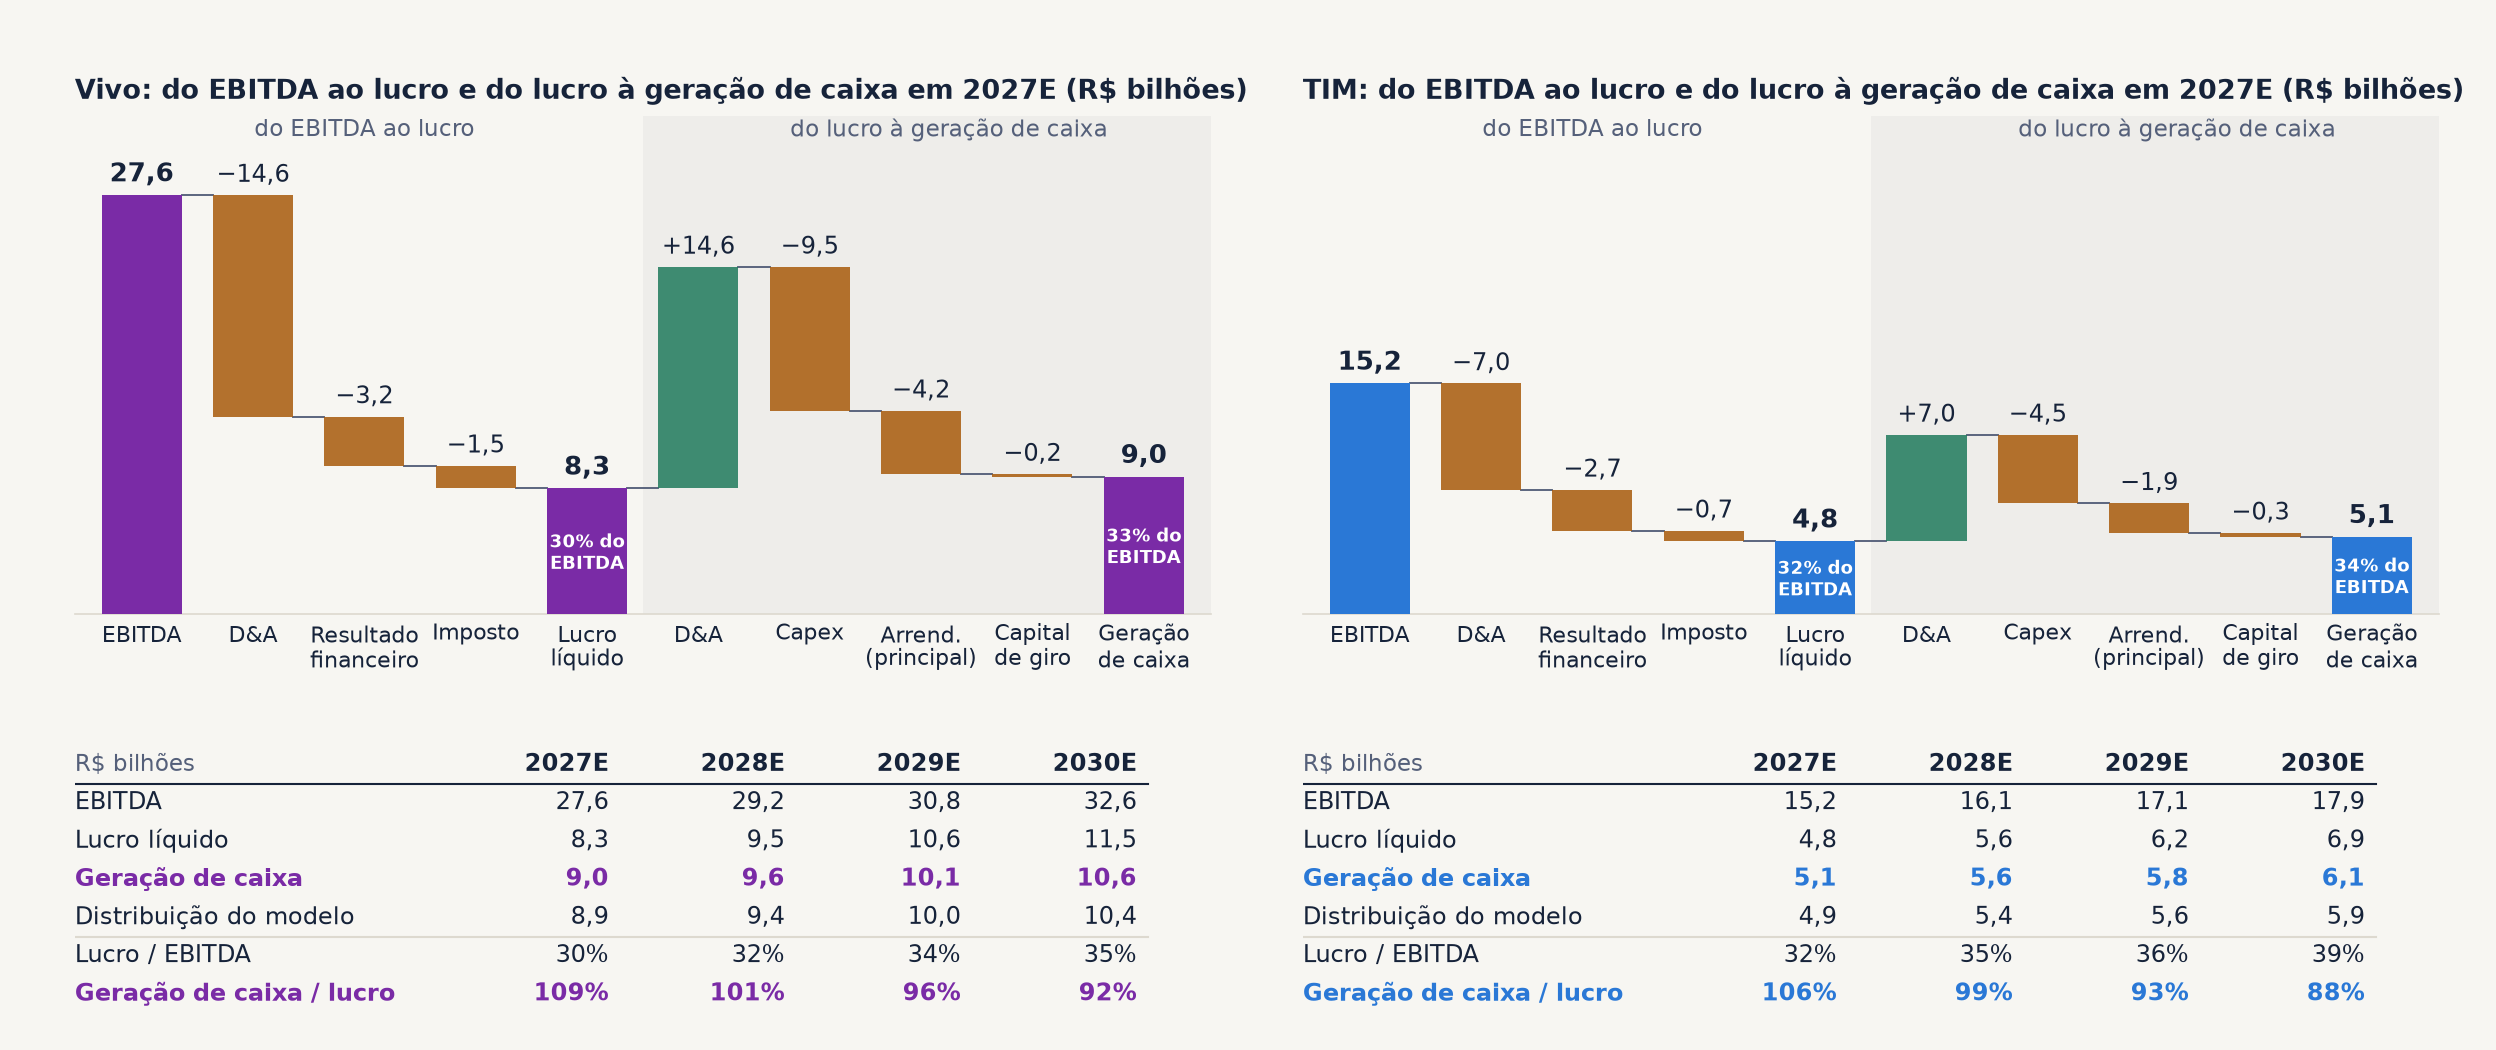
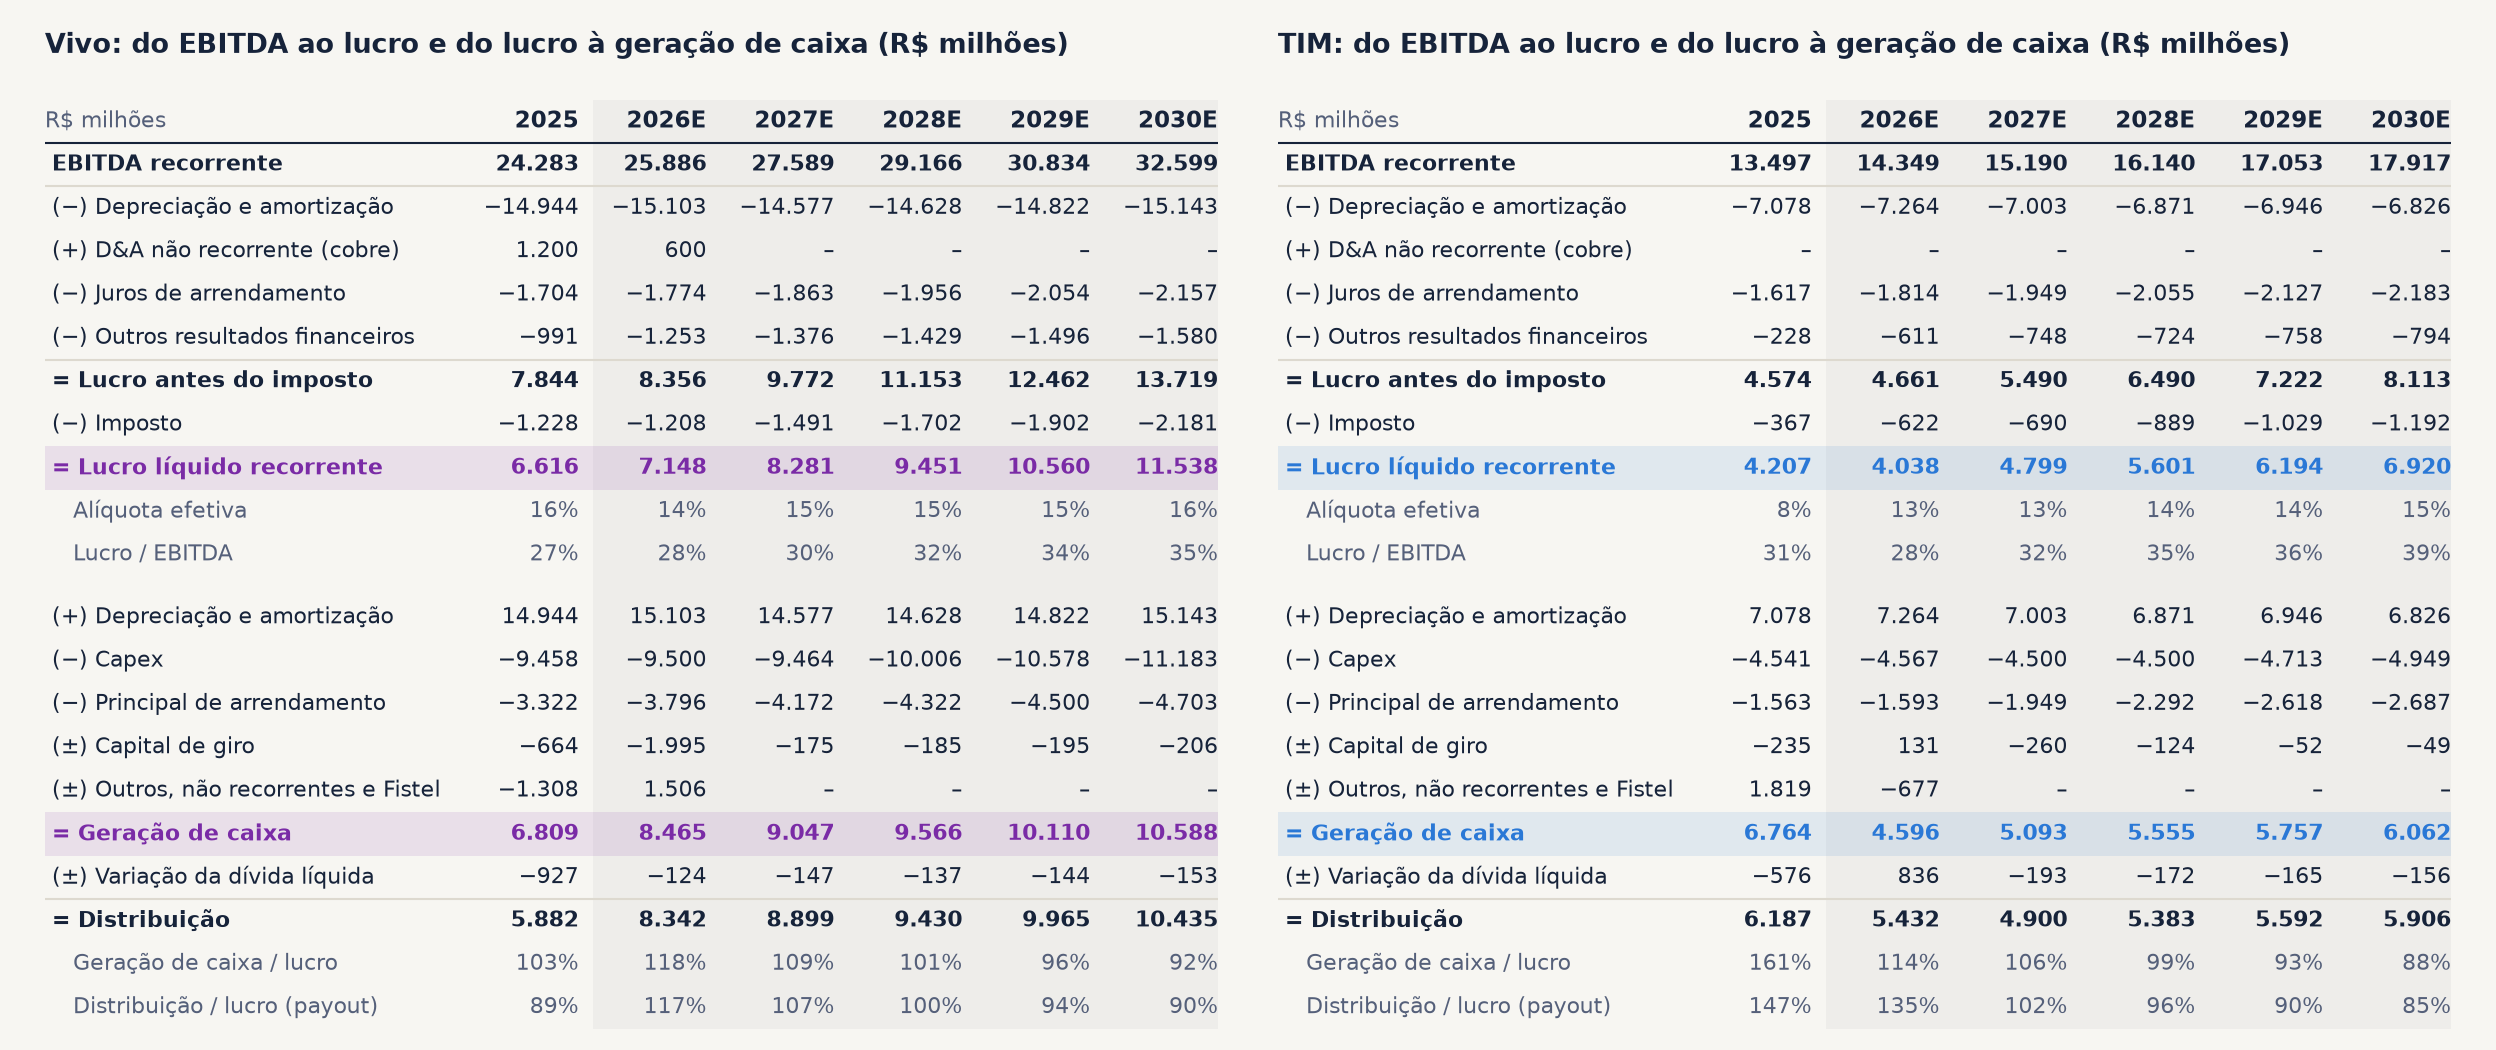
v6.2 - 24/11/2026 23:46 - slide 21: ponte do EBITDA ao lucro e ao caixa em tabela, 2025 a 2030E
Sai a cascata de 2027E; entra a tabela detalhada por ano (D&A, cobre, juros de arrendamento, outros financeiros, imposto, capex, principal de arrendamento, giro, outros, variacao da divida, distribuicao).

diff --git a/index.html b/index.html
@@ -40,7 +40,7 @@ h1, h2, h3 { font-family:'Space Grotesk', Arial, sans-serif; }
 <div id="palco">
 <section id="capa" class="capa" data-transition="fade">
 <div>
-<p class="chip">v6.1 · 24/11/2026 23:41</p>
+<p class="chip">v6.2 · 24/11/2026 23:46</p>
 </div>
 <div>
 <h1>Telecom Brasil: Vivo e TIM</h1>
@@ -183,10 +183,10 @@ h1, h2, h3 { font-family:'Space Grotesk', Arial, sans-serif; }
 </section>
 <section id="ponte" data-transition="fade">
 <p class="olho">8 · DO EBITDA AO LUCRO E DO LUCRO À GERAÇÃO DE CAIXA</p>
-<h2 class="titulo">Lucro é 30% a 39% do EBITDA; a geração de caixa passa do lucro em 2027E (109% e 106%) e cai para 92% e 88% em 2030E, com o investimento acima da D&A</h2>
-<img class="graf" src="img/v11_ponte.png" alt="Dois gráficos de cascata, Vivo e TIM na mesma escala, para 2027 estimado em bilhões de reais: EBITDA, menos depreciação e amortização, menos resultado financeiro, menos imposto, igual ao lucro líquido; depois mais depreciação e amortização, menos capex, menos principal de arrendamento, menos capital de giro, igual à geração de caixa. Embaixo, uma tabela de 2027 a 2030 estimado com EBITDA, lucro líquido, geração de caixa, distribuição do modelo e as relações lucro sobre EBITDA e geração de caixa sobre lucro">
-<p class="fonte">Fonte: modelos de Vivo e TIM de 24/11/2026. Geração de caixa = lucro + D&A − capex − principal de arrendamento − capital de giro, antes da variação da dívida líquida. Resultado financeiro inclui os juros de arrendamento e, na TIM, a equivalência patrimonial. A base supõe o Fistel pago.</p>
-<aside>Do EBITDA ao lucro em 2027E. Vivo: EBITDA de R$ 27,6 bilhões, menos R$ 14,6 bilhões de depreciação e amortização, menos R$ 3,2 bilhões de resultado financeiro (dos quais R$ 1,9 bilhão de juros de arrendamento), menos R$ 1,5 bilhão de imposto (15,3% do lucro antes do imposto, com o JCP), igual a R$ 8,3 bilhões de lucro, 30% do EBITDA. TIM: EBITDA de R$ 15,2 bilhões, menos R$ 7,0 bilhões de depreciação e amortização, menos R$ 2,7 bilhões de resultado financeiro (R$ 1,9 bilhão de juros de arrendamento e R$ 0,1 bilhão de equivalência patrimonial), menos R$ 0,7 bilhão de imposto (12,6%), igual a R$ 4,8 bilhões de lucro, 32% do EBITDA. Do lucro à geração de caixa em 2027E. Vivo: R$ 8,3 bilhões de lucro, mais R$ 14,6 bilhões de depreciação e amortização, menos R$ 9,5 bilhões de capex, menos R$ 4,2 bilhões de principal de arrendamento, menos R$ 0,2 bilhão de capital de giro, igual a R$ 9,0 bilhões, 109% do lucro e 33% do EBITDA. TIM: R$ 4,8 bilhões, mais R$ 7,0 bilhões, menos R$ 4,5 bilhões de capex, menos R$ 1,9 bilhão de arrendamento, menos R$ 0,3 bilhão de capital de giro, igual a R$ 5,1 bilhões, 106% do lucro e 34% do EBITDA. Por ano. Vivo: EBITDA de R$ 27,6, 29,2, 30,8 e 32,6 bilhões de 2027E a 2030E; lucro de R$ 8,3, 9,5, 10,6 e 11,5 bilhões (30%, 32%, 34% e 35% do EBITDA); geração de caixa de R$ 9,0, 9,6, 10,1 e 10,6 bilhões (109%, 101%, 96% e 92% do lucro); distribuição de R$ 8,9, 9,4, 10,0 e 10,4 bilhões. TIM: EBITDA de R$ 15,2, 16,1, 17,1 e 17,9 bilhões; lucro de R$ 4,8, 5,6, 6,2 e 6,9 bilhões (32%, 35%, 36% e 39%); geração de caixa de R$ 5,1, 5,6, 5,8 e 6,1 bilhões (106%, 99%, 93% e 88%); distribuição de R$ 4,9, 5,4, 5,6 e 5,9 bilhões. Leitura. O lucro cresce mais que o EBITDA porque a depreciação fica quase parada: na Vivo vai de R$ 14,6 bilhões para R$ 15,1 bilhões enquanto o EBITDA sobe R$ 5,0 bilhões; na TIM cai de R$ 7,0 bilhões para R$ 6,8 bilhões. A geração de caixa cresce menos que o lucro porque capex mais principal de arrendamento passam a depreciação: na Vivo, R$ 13,6 bilhões contra R$ 14,6 bilhões de D&A em 2027E (sobra de R$ 0,9 bilhão) e R$ 15,9 bilhões contra R$ 15,1 bilhões em 2030E (falta de R$ 0,7 bilhão); na TIM, R$ 6,4 bilhões contra R$ 7,0 bilhões em 2027E (sobra de R$ 0,6 bilhão) e R$ 7,6 bilhões contra R$ 6,8 bilhões em 2030E (falta de R$ 0,8 bilhão). É a mesma discussão do slide 14 vista pelo caixa: o payout acima de 100% de 2027E depende de a depreciação ainda estar acima do investimento. A diferença entre a geração de caixa e a distribuição é a variação da dívida líquida projetada (R$ 0,1 a 0,2 bilhão por ano). Fora da ponte: o Fistel não pago (a base supõe a taxa paga; slides 18 a 20), a venda de ativos da Vivo (R$ 1,5 bilhão líquido em 2027E e R$ 1,0 bilhão em 2028E no modelo, não recorrente) e a emissão de arrendamento, que não é caixa.</aside>
+<h2 class="titulo">Lucro vai de 27% para 35% do EBITDA na Vivo e de 31% para 39% na TIM; a geração de caixa cai de 109% e 106% do lucro em 2027E para 92% e 88% em 2030E</h2>
+<img class="graf" src="img/v11_ponte.png" alt="Duas tabelas lado a lado, Vivo e TIM, de 2025 a 2030 estimado, em milhões de reais. Primeira parte: EBITDA recorrente, menos depreciação e amortização, mais a depreciação não recorrente do cobre, menos juros de arrendamento, menos outros resultados financeiros, lucro antes do imposto, imposto e lucro líquido recorrente, com a alíquota efetiva e a relação lucro sobre EBITDA. Segunda parte: mais depreciação e amortização, menos capex, menos principal de arrendamento, capital de giro, outros, geração de caixa, variação da dívida líquida e distribuição, com as relações geração de caixa sobre lucro e distribuição sobre lucro">
+<p class="fonte">Fonte: modelos de Vivo e TIM de 24/11/2026; 2025 realizado. Outros resultados financeiros da TIM incluem a equivalência patrimonial. Outros no caixa: itens não recorrentes, Fistel não pago, depósitos judiciais e compras de participação; de 2027E em diante a base supõe o Fistel pago.</p>
+<aside>Como ler. A primeira parte desce do EBITDA recorrente ao lucro líquido recorrente; a segunda sobe do lucro à geração de caixa e à distribuição. Valores em milhões de reais, com o sinal do efeito (negativo tira). Vivo, do EBITDA ao lucro: EBITDA de 24.283 em 2025, 25.886 em 2026E, 27.589 em 2027E, 29.166 em 2028E, 30.834 em 2029E e 32.599 em 2030E; depreciação e amortização de 14.944, 15.103, 14.577, 14.628, 14.822 e 15.143, das quais 1.200 em 2025 e 600 em 2026E são a depreciação acelerada do cobre, que o lucro recorrente devolve; juros de arrendamento de 1.704, 1.774, 1.863, 1.956, 2.054 e 2.157; outros resultados financeiros de 991, 1.253, 1.376, 1.429, 1.496 e 1.580; lucro antes do imposto de 7.844, 8.356, 9.772, 11.153, 12.462 e 13.719; imposto de 1.228, 1.208, 1.491, 1.702, 1.902 e 2.181 (alíquota de 14% a 16%, com o JCP); lucro de 6.616, 7.148, 8.281, 9.451, 10.560 e 11.538, que são 27%, 28%, 30%, 32%, 34% e 35% do EBITDA. Vivo, do lucro ao caixa: capex de 9.458, 9.500, 9.464, 10.006, 10.578 e 11.183; principal de arrendamento de 3.322, 3.796, 4.172, 4.322, 4.500 e 4.703; capital de giro de menos 664, menos 1.995, menos 175, menos 185, menos 195 e menos 206; outros de menos 1.308 em 2025 e mais 1.506 em 2026E; geração de caixa de 6.809, 8.465, 9.047, 9.566, 10.110 e 10.588 (103%, 118%, 109%, 101%, 96% e 92% do lucro); distribuição de 5.882, 8.342, 8.899, 9.430, 9.965 e 10.435 (payout de 89%, 117%, 107%, 100%, 94% e 90%). TIM, do EBITDA ao lucro: EBITDA de 13.497, 14.349, 15.190, 16.140, 17.053 e 17.917; depreciação e amortização de 7.078, 7.264, 7.003, 6.871, 6.946 e 6.826; juros de arrendamento de 1.617, 1.814, 1.949, 2.055, 2.127 e 2.183; outros resultados financeiros, com a equivalência, de 228, 611, 748, 724, 758 e 794; lucro antes do imposto de 4.574, 4.661, 5.490, 6.490, 7.222 e 8.113; imposto de 367, 622, 690, 889, 1.029 e 1.192 (alíquota de 8% em 2025 e de 13% a 15% depois); lucro de 4.207, 4.038, 4.799, 5.601, 6.194 e 6.920, que são 31%, 28%, 32%, 35%, 36% e 39% do EBITDA. TIM, do lucro ao caixa: capex de 4.541, 4.567, 4.500, 4.500, 4.713 e 4.949; principal de arrendamento de 1.563, 1.593, 1.949, 2.292, 2.618 e 2.687; capital de giro de menos 235, mais 131, menos 260, menos 124, menos 52 e menos 49; outros de mais 1.819 em 2025 e menos 677 em 2026E; geração de caixa de 6.764, 4.596, 5.093, 5.555, 5.757 e 6.062 (161%, 114%, 106%, 99%, 93% e 88% do lucro); distribuição de 6.187, 5.432, 4.900, 5.383, 5.592 e 5.906 (payout de 147%, 135%, 102%, 96%, 90% e 85%). Leitura. O lucro cresce mais que o EBITDA porque a depreciação fica quase parada: na Vivo sobe 0,6 bilhão de 2027E a 2030E enquanto o EBITDA sobe 5,0 bilhões; na TIM cai 0,2 bilhão. A geração de caixa cresce menos que o lucro porque capex mais principal de arrendamento passam a depreciação: na Vivo, 13,6 bilhões contra 14,6 bilhões de D&A em 2027E e 15,9 bilhões contra 15,1 bilhões em 2030E; na TIM, 6,4 bilhões contra 7,0 bilhões em 2027E e 7,6 bilhões contra 6,8 bilhões em 2030E. É a discussão do slide 14 vista pelo caixa: o payout acima de 100% de 2027E depende de a depreciação ainda estar acima do investimento. A linha de outros concentra o que não se repete: em 2026E, na Vivo, R$ 1,6 bilhão de Fistel não pago, depósitos judiciais resgatados e venda de ativos, menos tributos antecipados e compras de participação; na TIM, a compra de participação pesa mais que o Fistel não pago. Pontos a conferir nos modelos: na TIM o principal de arrendamento de 2027E (1.949) é igual aos juros de arrendamento do mesmo ano, e sobe 72% de 2025 a 2030E contra 35% dos juros; o capital de giro da Vivo em 2026E (menos 1.995) é muito maior que o dos anos seguintes. Fora da tabela: a venda de ativos da Vivo de 2027E e 2028E (não recorrente) e a emissão de arrendamento, que não é caixa.</aside>
 </section>
 </div>
 <div id="notas"></div>

diff --git a/README.md b/README.md
@@ -1,3 +1,3 @@
 # Telecom Brasil: Vivo e TIM
 
-Deck de telecom (v6.1 · 24/11/2026 23:41): o setor contra a inflação e o PIB, receita, margem, EBITDA, capex e arrendamento, lucro, payout, Fistel e valuation de Vivo e TIM.
+Deck de telecom (v6.2 · 24/11/2026 23:46): o setor contra a inflação e o PIB, receita, margem, EBITDA, capex e arrendamento, lucro, payout, Fistel e valuation de Vivo e TIM.
